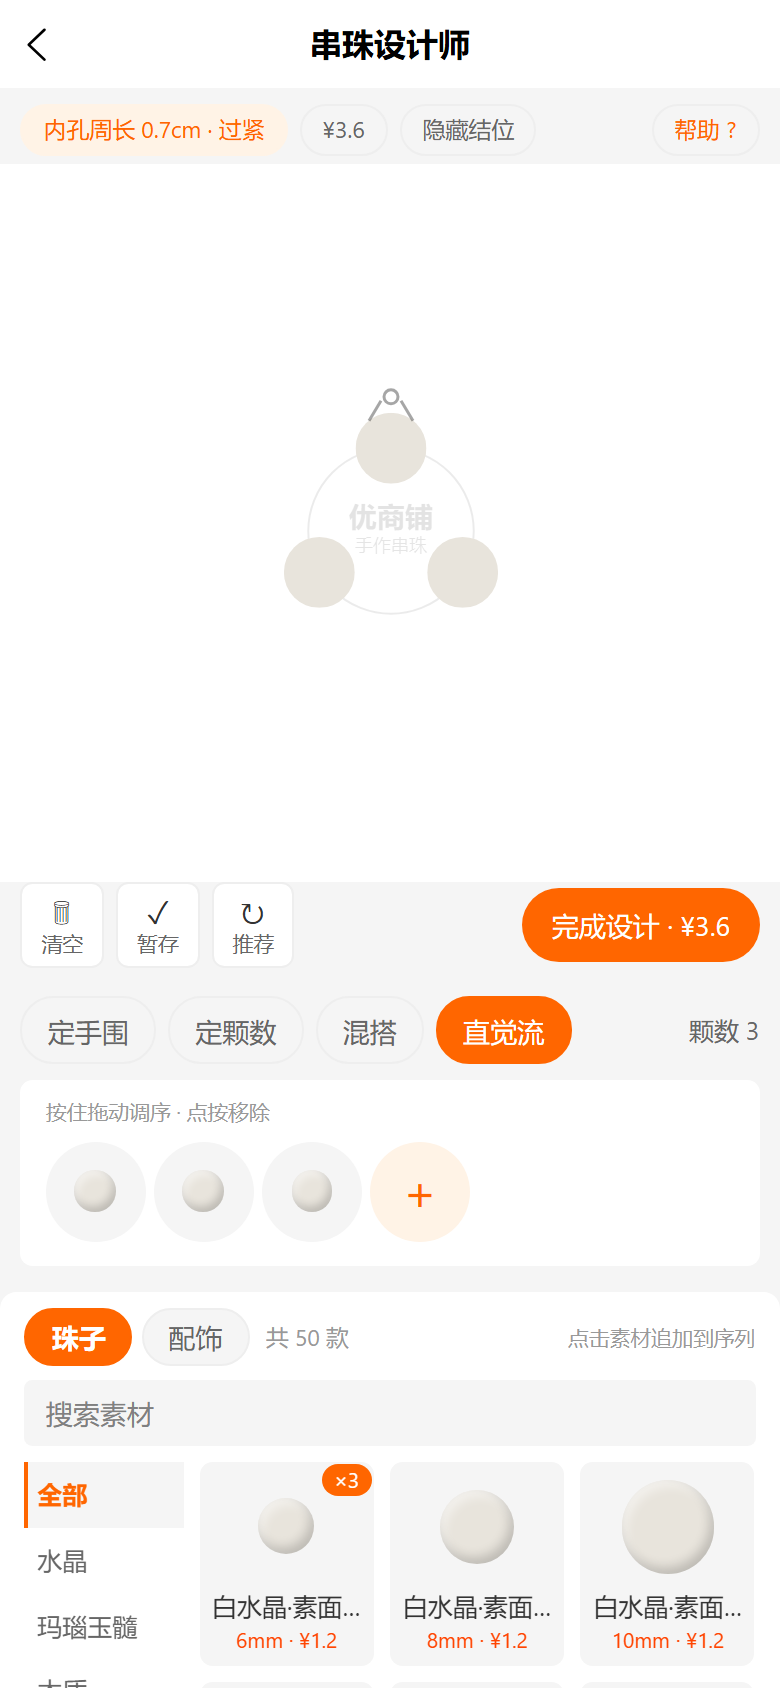
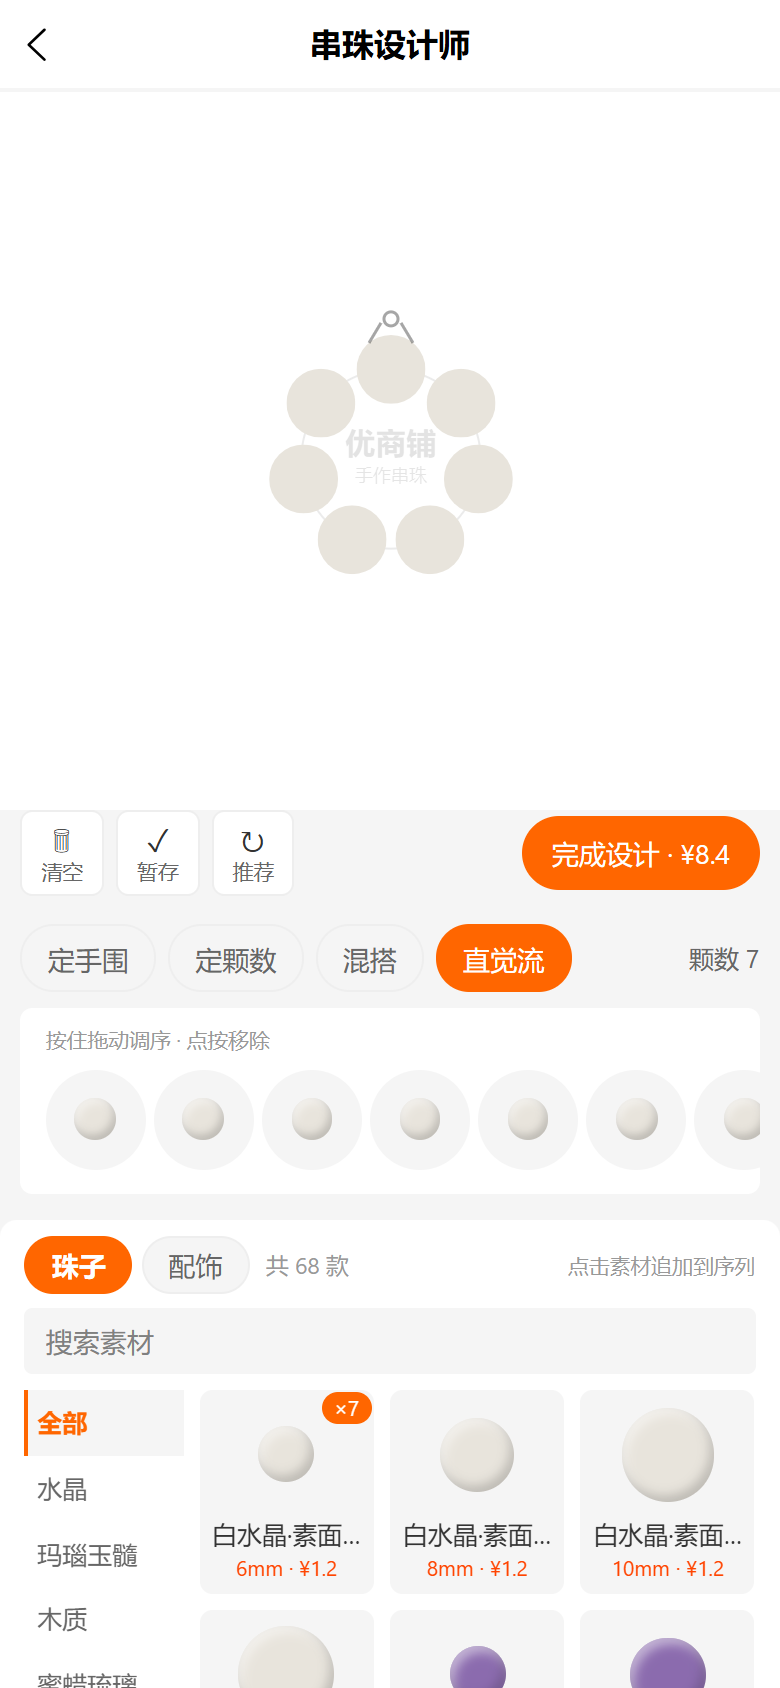
feat(pkg-diy): 配饰素材落地——隔片串入/挂坠挂外/素材详情三字段
- designer onPickMaterial 按 attrs.kind 分流：spacer→appendBead 串入环上，pendant/charm→addDecor 挂环外
- BeadRing 配饰按素材直径渲染（下限 6*scale），挂坠带挂钩视觉与珠串比例真实
- MaterialDetailPopup 增补寓意/产地/莫氏硬度三行（attrs 多语言，缺省省略）+ i18n×5
- getDiyMaterials 四处调用传 take:200 修复素材 >50 条截断（配饰 sortOorder=100 被截）
- 手册新增 §5.4 配饰素材章节 + 3 张手机截图 + 用例 28-32；回归 15/15、配饰实测 10/10 PASS

diff --git a/src/pkg-diy/components/MaterialDetailPopup.vue b/src/pkg-diy/components/MaterialDetailPopup.vue
@@ -6,11 +6,15 @@
             <text class="mdp__name">{{ materialName(material, locale) }}</text>
             <view class="mdp__row"><text class="mdp__k">{{ t('diy.detail.spec') }}</text><text>{{ material.diameter ?? material.axialLength ?? 0 }}mm</text></view>
             <view class="mdp__row"><text class="mdp__k">{{ t('diy.detail.price') }}</text><text class="mdp__price">¥{{ yuan(material.price) }}{{ t('diy.perBead') }}</text></view>
+            <view v-if="materialDetail.meaning" class="mdp__row"><text class="mdp__k">{{ t('diy.detail.meaning') }}</text><text>{{ materialDetail.meaning }}</text></view>
+            <view v-if="materialDetail.origin" class="mdp__row"><text class="mdp__k">{{ t('diy.detail.origin') }}</text><text>{{ materialDetail.origin }}</text></view>
+            <view v-if="materialDetail.hardness" class="mdp__row"><text class="mdp__k">{{ t('diy.detail.hardness') }}</text><text>{{ materialDetail.hardness }}</text></view>
             <view class="mdp__btn" @tap="onPick">{{ t('diy.detail.pick') }}</view>
         </view>
     </view>
 </template>
 <script setup lang="ts">
+import { computed } from 'vue';
 import { useI18n } from 'vue-i18n';
 import { materialColor, materialName, yuan, type DiyMaterialRow } from '../composables/useDesigner';
 
@@ -22,6 +26,17 @@ const emit = defineEmits<{
 const { t, locale } = useI18n();
 function close() { emit('update:material', null); }
 function onPick() { if (props.material) emit('pick', props.material.id); close(); }
+
+/** attrs 详情（meaning/origin 多语言；缺省跳行） */
+const materialDetail = computed(() => {
+    const a: any = (props.material as any)?.attrs || {};
+    const loc = (v: any): string => {
+        if (!v) return '';
+        if (typeof v === 'string') return v;
+        return v[locale.value] || v['zh-CN'] || Object.values(v)[0] || '';
+    };
+    return { meaning: loc(a.meaning), origin: loc(a.origin), hardness: a.hardness ? String(a.hardness) : '' };
+});
 </script>
 <style lang="scss" scoped>
 .mdp {

diff --git a/src/pkg-diy/pages/designer.vue b/src/pkg-diy/pages/designer.vue
@@ -276,7 +276,7 @@ const hasSpacer = computed(() => d.slots.value.some(s => s.role === 'spacer'));
 onLoad(async () => {
     uni.setNavigationBarTitle({ title: t('diy.designer') });
     try {
-        const res: any = await getDiyMaterials();
+        const res: any = await getDiyMaterials({ take: 200 });
         materials.value = (res?.diyMaterials?.items || []).map((m: any) => ({ ...m, id: String(m.id) }));
     } catch {
         materials.value = [];
@@ -344,9 +344,14 @@ function selectSlot(i: number) {
     paramsOpen.value = false;
 }
 
-/** 面板点卡：配饰 tab → addDecor（free）或指派 decor 槽（非 free 已选槽）；珠子 tab → free 追加 / 槽位指派 */
+/** 面板点卡：配饰 tab → 隔片串入环上（appendBead）/ 挂坠装饰珠挂环外（addDecor，free）或指派 decor 槽（非 free 已选槽）；珠子 tab → free 追加 / 槽位指派 */
 function onPickMaterial(id: string, tab: 'beads' | 'decors' = 'beads') {
     if (tab === 'decors') {
+        const row = materials.value.find(m => m.id === id);
+        if (row?.attrs && (row.attrs as any).kind === 'spacer') {
+            d.appendBead(id);
+            return;
+        }
         if (d.mode.value !== 'free' && editingSlotIdx.value >= 0) {
             d.assignSlot(editingSlotIdx.value, id);
             return;

diff --git a/src/pkg-diy/components/BeadRing.vue b/src/pkg-diy/components/BeadRing.vue
@@ -257,7 +257,8 @@ let knotPos = { x: 0, y: 0 };
 function drawDecorAt(x: number, y: number, d0: DecorPlacement) {
     if (!ctx) return;
     const row = (props.decorRows ?? []).find(r0 => r0.id === d0.materialId);
-    const r = 9 * Math.max(0.7, geo.scale);
+    // 按素材直径渲染（mm → px；下限 6*scale 保证小配饰可辨）
+    const r = Math.max(6 * geo.scale, ((row?.diameter ?? row?.axialLength ?? 8) / 2) * geo.scale);
     const sprite = row?.renderUrl ? spriteMap.value.get(row.renderUrl) ?? null : null;
     if (sprite) ctx.drawImage(sprite, x - r, y - r, r * 2, r * 2);
     else drawBead(ctx, { x, y, r, color: materialColor(row), preset: row?.renderPreset ?? null, seed: hashSeed(d0.decorId) });

diff --git a/src/pkg-diy/composables/usePlanDetail.ts b/src/pkg-diy/composables/usePlanDetail.ts
@@ -202,7 +202,7 @@ export function usePlanDetail(materials: Ref<DiyMaterialRow[]>, locale: Ref<stri
     /** 素材行（Public diyMaterials 全量） */
     async function loadMaterials() {
         try {
-            const res: any = await getDiyMaterials();
+            const res: any = await getDiyMaterials({ take: 200 });
             materials.value = (res?.diyMaterials?.items || []).map((m: any) => ({ ...m, id: String(m.id) }));
         } catch {
             materials.value = [];

diff --git a/src/pkg-diy/pages/gallery.vue b/src/pkg-diy/pages/gallery.vue
@@ -76,7 +76,7 @@ onLoad(async () => {
 
 async function loadMaterials() {
     try {
-        const res: any = await getDiyMaterials();
+        const res: any = await getDiyMaterials({ take: 200 });
         materials.value = (res?.diyMaterials?.items || []).map((m: any) => ({ ...m, id: String(m.id) }));
     } catch {
         materials.value = [];

diff --git a/src/pkg-diy/pages/my-plans.vue b/src/pkg-diy/pages/my-plans.vue
@@ -91,7 +91,7 @@ onShow(() => {
 
 async function loadMaterials() {
     try {
-        const res: any = await getDiyMaterials();
+        const res: any = await getDiyMaterials({ take: 200 });
         materials.value = (res?.diyMaterials?.items || []).map((m: any) => ({ ...m, id: String(m.id) }));
     } catch {
         materials.value = [];

diff --git a/docs/pkg-diy-操作手册.md b/docs/pkg-diy-操作手册.md
@@ -74,6 +74,13 @@
 - 画布环心绘制店铺品牌水印（品牌名 + 标语，透明度 0.10~0.12），取自租户 shopName，未配置时自动省略。
 - 珠心轨迹绘制细灰轨道圆（rgba 0.08），拖拽落点参照更直观。
 
+### 5.4 配饰素材：隔片 / 挂坠 / 装饰珠（2026-10-13）
+- 素材面板分「珠子 / 配饰」两个 tab：`attrs.decor=true` 的素材归配饰 tab（15 款种子：隔片 ×6、挂坠 ×4、装饰珠 ×5），含价格与尺码（mm），与珠子同等计价。
+- **隔片**（spacer）：点击后**串入环上当小珠**（appendBead，进序列、计颗数与周长算量），如纯银/镀金圆隔片、平片、黑檀隔珠、松石隔片。
+- **挂坠 / 装饰珠**（pendant/charm）：点击后**挂在环外间隙**（addDecor，只加价不加颗数），画布带小挂钩渲染，可拖拽换位、拖出删除；如翡翠平安扣、蜜蜡水滴坠、纯银铃铛、镀金转运珠。
+- **素材详情弹窗**：长按素材卡弹出，含规格（mm）、单价（¥/颗）、**寓意、产地、莫氏硬度**三行详情（取 attrs.meaning/origin/hardness，多语言，缺省自动省略该行）；现有 50 条珠子素材已批量增补同结构详情。
+- 配饰渲染按素材实际直径绘制（下限保证小配饰可辨），材质预设走 renderPreset（金属/玉/蜜蜡/珍珠等 8 类）。
+
 ## 6. 渲染效果说明（多级回退）
 
 素材渲染按 **贴图 → 材质预设 → 组色板 → 纯色** 多级回退：
@@ -105,6 +112,9 @@
 | ![环心水印](pkg-diy-p7-screens/p72-canvas-watermark.png) | P7.2 环心品牌水印特写 |
 | ![摘要浮层](pkg-diy-p7-screens/p72-summary-sheet.png) | P7.2 常驻面板 + 计算摘要浮层 |
 | ![设计器全景](pkg-diy-p7-screens/p72-designer-full.png) | P7.2 常驻素材面板版设计器全景 |
+| ![配饰 tab](pkg-diy-p7-screens/decor-tab-panel.png) | 配饰素材 tab：隔片/挂坠/装饰珠 15 款（价格+尺码） |
+| ![配饰手串全景](pkg-diy-p7-screens/decor-bracelet-full.png) | 松石隔片串入环上 + 翡翠平安扣挂环外（带挂钩） |
+| ![素材详情弹窗](pkg-diy-p7-screens/decor-detail-popup.png) | 长按素材卡：规格/单价/寓意/产地/莫氏硬度 |
 
 （P7.2 截图源目录：`docs/pkg-diy-p7-screens/`，回归脚本 `scripts/_verify_diy_p72.py`，15/15 PASS。）
 
@@ -139,6 +149,11 @@
 | 25 | 计算摘要浮层（P7.2） | 面板展开摘要显示几何/合计，收起恢复 | ✅ |
 | 26 | 环心水印（P7.2） | 环心品牌名 + 标语低透明度绘制 | ✅ |
 | 27 | 轨道圆（P7.2） | 珠心轨迹细灰圆可见，不压珠子 | ✅ |
+| 28 | 配饰 tab 15 款（2026-10-13） | 隔片 ×6 / 挂坠 ×4 / 装饰珠 ×5，价格尺码齐全 | ✅ |
+| 29 | 隔片串入环上 | 点卡 appendBead 进序列，颗数/周长/价格联动 | ✅ |
+| 30 | 挂坠挂环外 | 点卡 addDecor 只加价不加颗数，画布带挂钩 | ✅ |
+| 31 | 素材详情弹窗 | 长按弹规格/单价/寓意/产地/莫氏硬度（多语言） | ✅ |
+| 32 | 珠子详情增补 | 50 条现有珠子 attrs 补 meaning/origin/hardness | ✅ |
 
 > P7.2 回归以 Playwright 合成触摸事件驱动（CDP touch 在本环境不送达 canvas），脚本 `scripts/_verify_diy_p72.py` 共 15 项判据全部通过。
 

diff --git a/docs/superpowers/specs/2026-10-13-diy-decor-materials-design.md b/docs/superpowers/specs/2026-10-13-diy-decor-materials-design.md
@@ -15,7 +15,7 @@
 
 数据侧实况：68 条素材全部 `shape=round`，集中在 cat1–5 五个分类；`金属配件`/`天然宝石` 分类空置；无 `shape=spacer` 素材。后端 `calc-bridge` 已支持 spacer/decor 角色，`bracelet-classic` 模板隔片槽位 filter `shapes:['spacer']` 就绪——纯缺数据。
 
-## 2. 设计：配饰素材清单（14 款，价格尺码齐全）
+## 2. 设计：配饰素材清单（15 款，价格尺码齐全）
 
 ### 2.1 隔片 ×6（shape=spacer，配饰 tab，点击串入环上）
 
